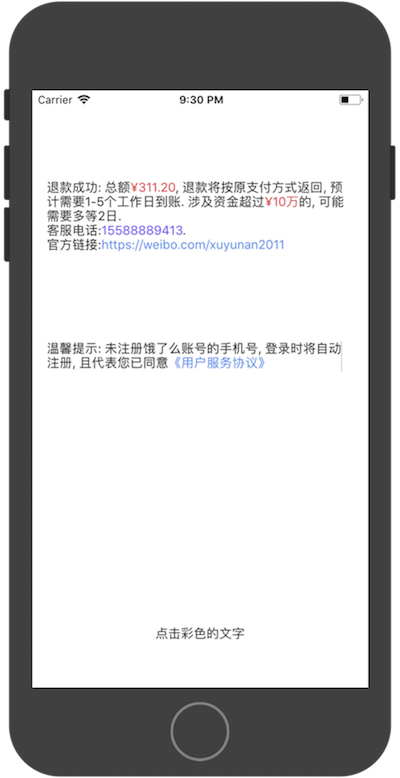
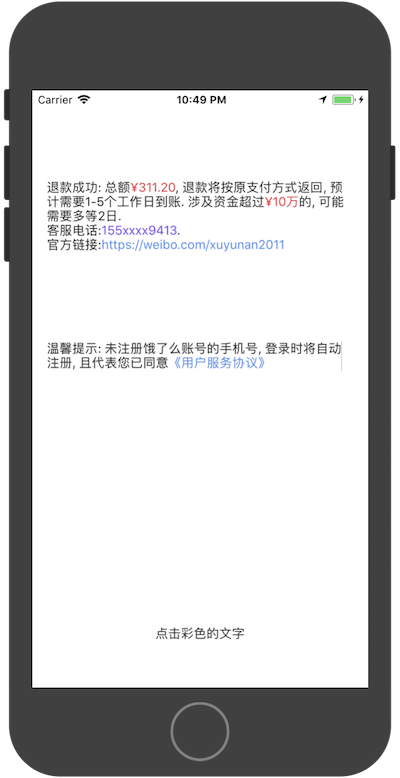
0.0.2

Changed region(s): [[0.3, 0.2776, 0.45, 0.3085], [0.81, 0.1234, 0.93, 0.1542], [0.45, 0.1234, 0.57, 0.1542]]

diff --git a/Example/YNSuperLabel/ViewController.swift b/Example/YNSuperLabel/ViewController.swift
@@ -40,7 +40,7 @@ class ViewController: UIViewController {
             self.hintLabel.textColor = attr.textColor
         }
         
-        label.text = "退款成功: 总额^price(¥311.20), 退款将按原支付方式返回, 预计需要1-5个工作日到账. 涉及资金超过^price(¥10万)的, 可能需要多等2日. \n客服电话:^tel(15588889413). \n官方链接:^link(https://weibo.com/xuyunan2011)"
+        label.text = "退款成功: 总额^price(¥311.20), 退款将按原支付方式返回, 预计需要1-5个工作日到账. 涉及资金超过^price(¥10万)的, 可能需要多等2日. \n客服电话:^tel(155xxxx9413). \n官方链接:^link(https://weibo.com/xuyunan2011)"
         self.view.addSubview(label)
         
         // Example 2
